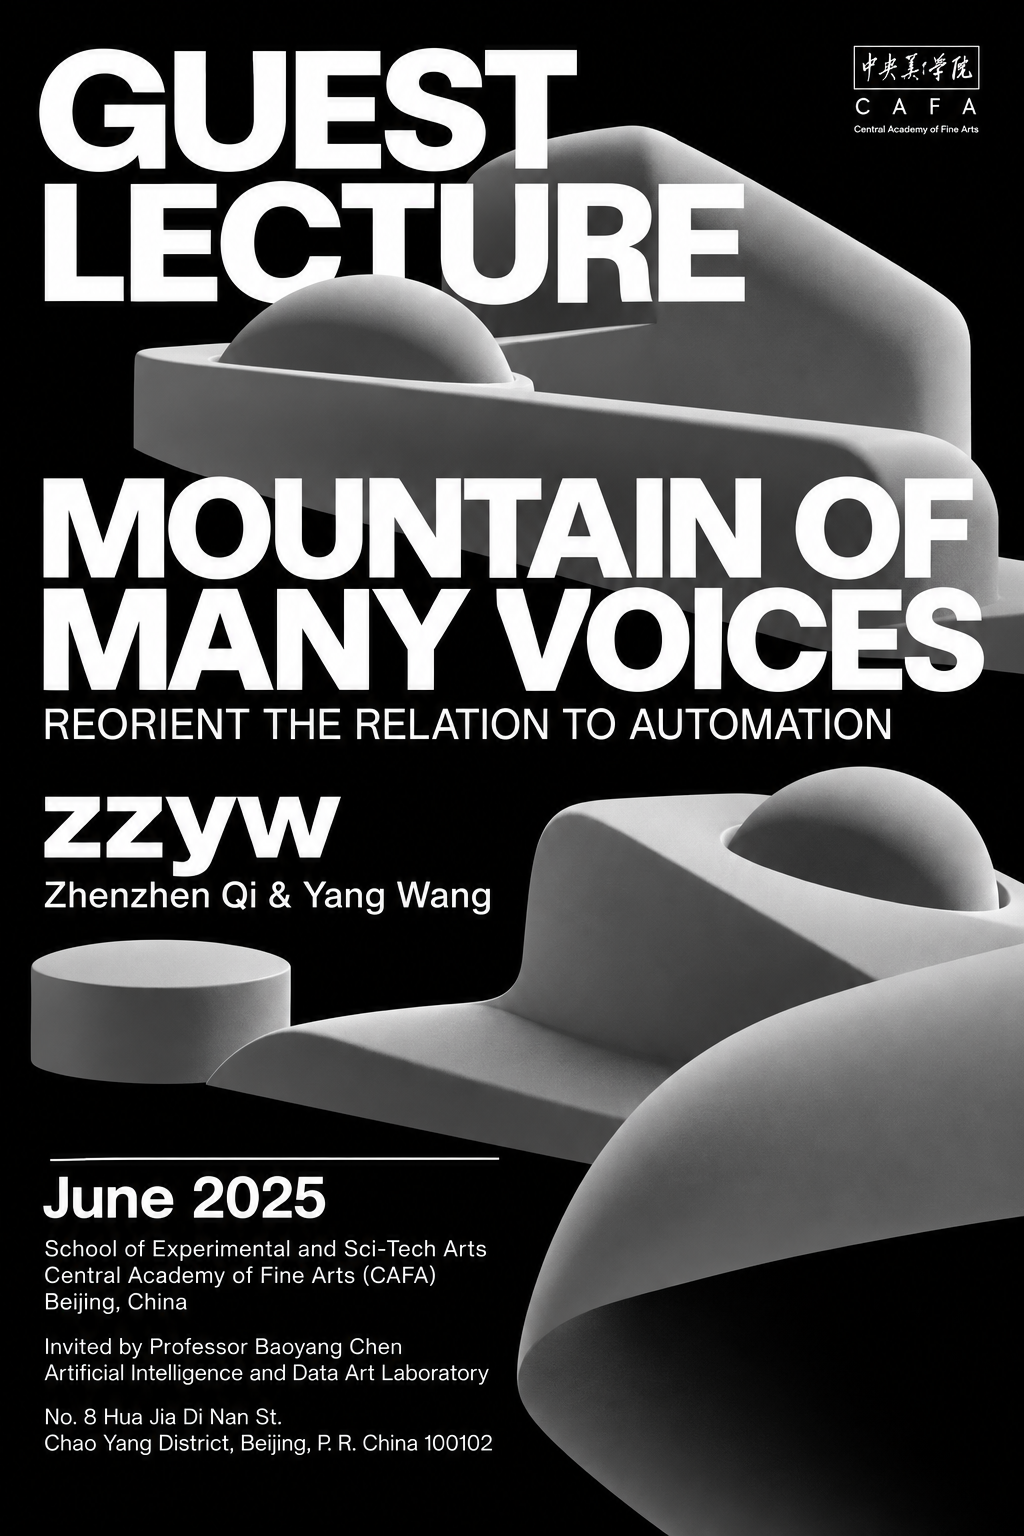
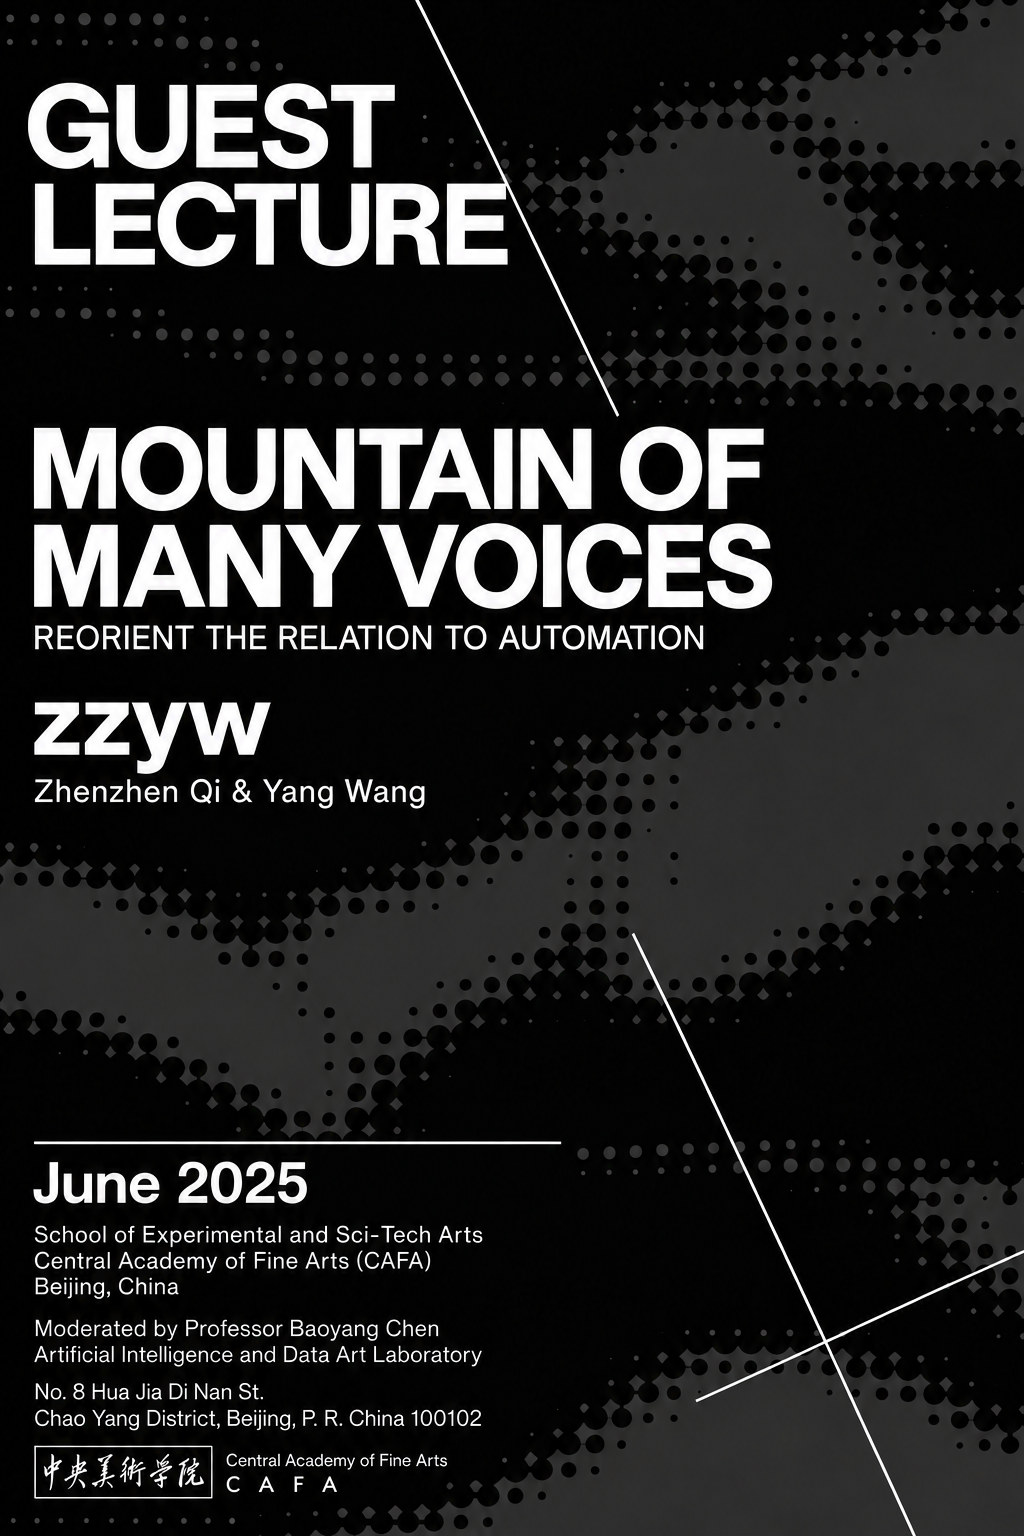
Refine CAFA flyer and moderator credit

diff --git a/video-game/momv/index.html b/video-game/momv/index.html
@@ -16,7 +16,7 @@ permalink: /video-game/momv/
 <figure style="width: 62%; max-width: 100%; margin: 1.25rem 0 2rem;">
   <img src="https://raw.githubusercontent.com/zhenzhenqi/zhq23006/main/assets/imported/video-game/momv/hartHaus.jpg" alt="Event flyer for Mountain of Many Voices: Reconstruct the Relation to AI at HART Haus" style="display: block; width: 100%; height: auto;">
 </figure>
-<p>06/2025 — “Mountain of Many Voices: Reorient the Relation to Automation,” guest lecture, <a href="https://www.cafa.edu.cn/sp/nljg/?j=121">School of Experimental and Sci-Tech Arts</a>, Central Academy of Fine Arts (CAFA), Beijing, China. Invited by Professor Baoyang Chen of the <a href="https://caidic.caai.cn/uploads/files/c7226c8501d7b317c0f38e17bb6cfeeb.pdf">Artificial Intelligence and Data Art Laboratory</a>.</p>
+<p>06/2025 — “Mountain of Many Voices: Reorient the Relation to Automation,” guest lecture, <a href="https://www.cafa.edu.cn/sp/nljg/?j=121">School of Experimental and Sci-Tech Arts</a>, Central Academy of Fine Arts (CAFA), Beijing, China. Moderated by Professor Baoyang Chen of the <a href="https://caidic.caai.cn/uploads/files/c7226c8501d7b317c0f38e17bb6cfeeb.pdf">Artificial Intelligence and Data Art Laboratory</a>.</p>
 <figure style="width: 62%; max-width: 100%; margin: 1.25rem 0 2rem;">
   <img src="https://raw.githubusercontent.com/zhenzhenqi/zhq23006/main/assets/imported/video-game/momv/cafa-lecture-flyer.png" alt="Guest lecture flyer for Mountain of Many Voices: Reorient the Relation to Automation at the Central Academy of Fine Arts" style="display: block; width: 100%; height: auto;">
 </figure>
